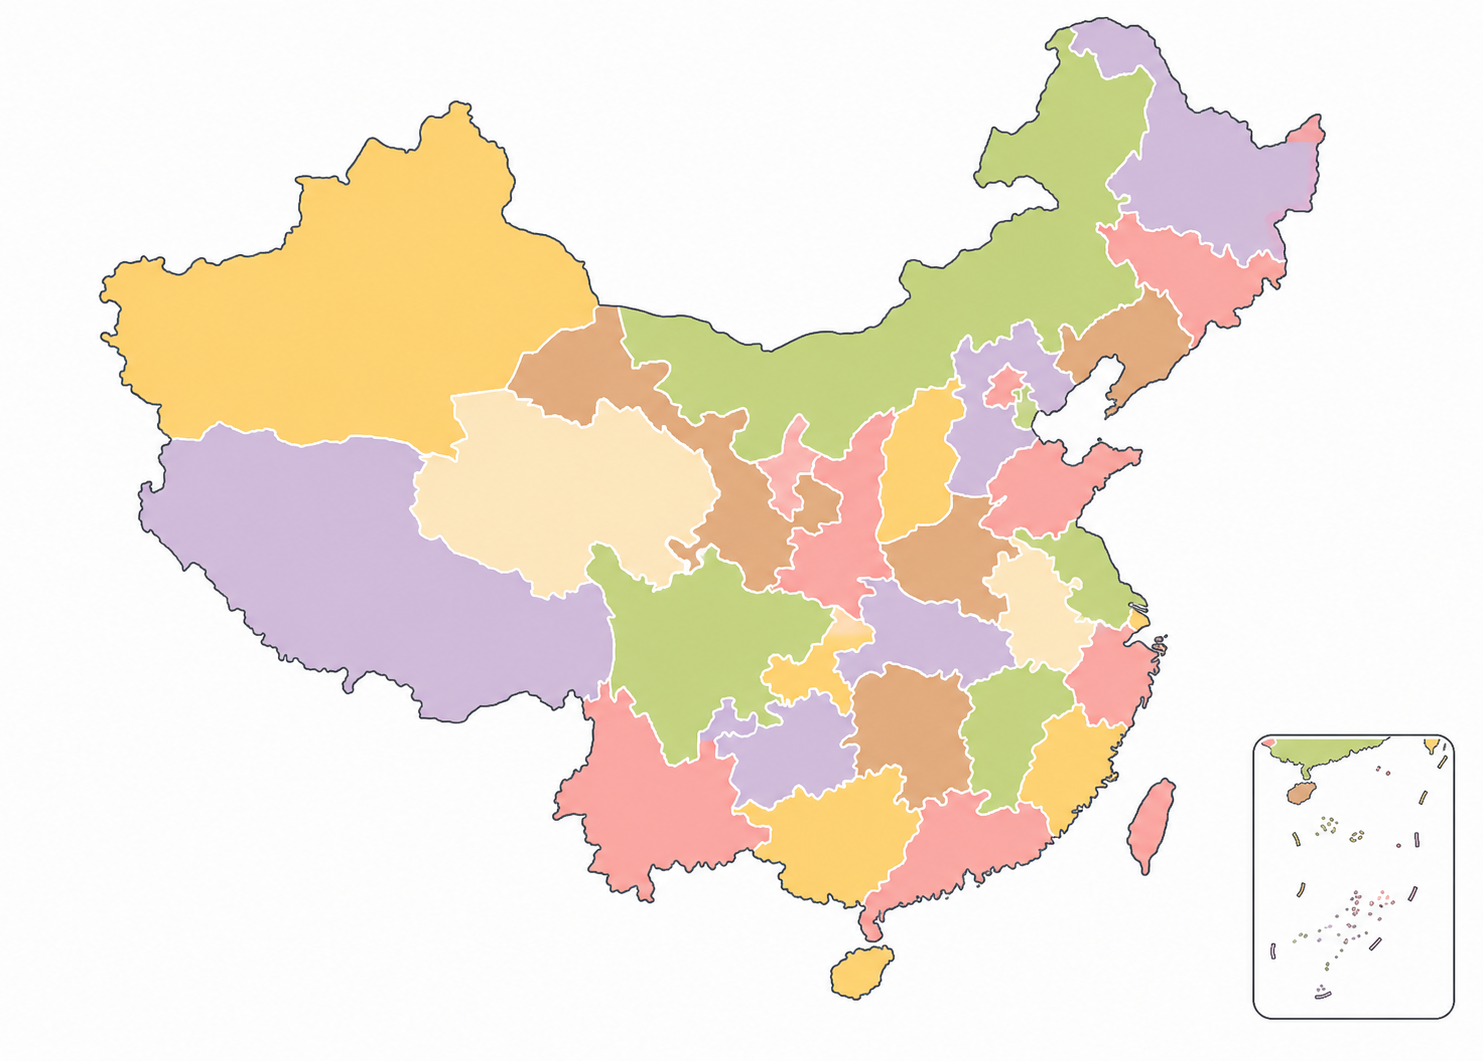
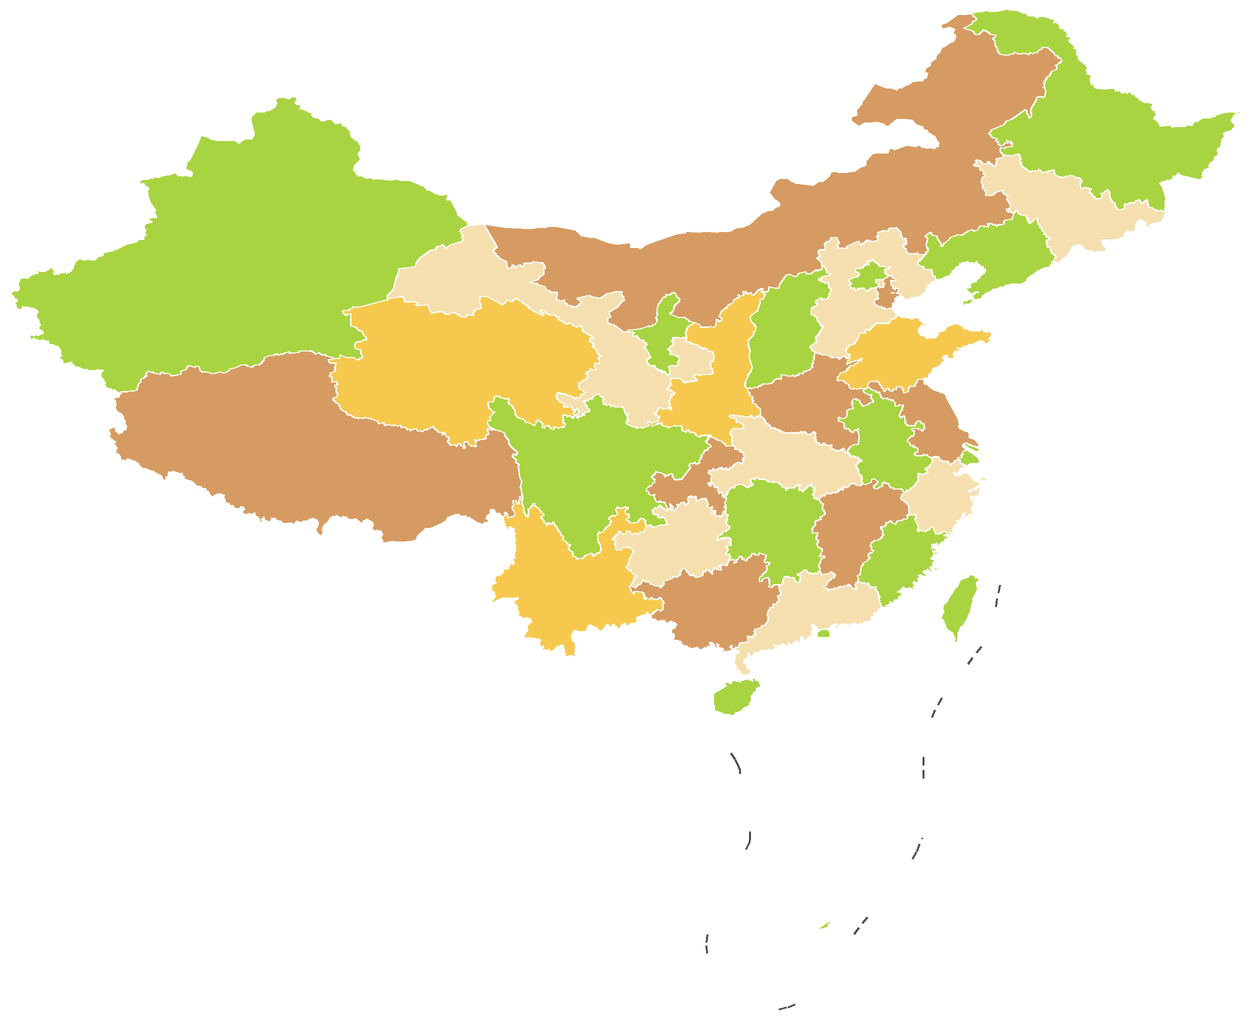
fix: align travel maps with geographic projection

diff --git a/index.html b/index.html
@@ -6,19 +6,19 @@
   <meta name="theme-color" content="#66B6FF">
   <title>小满则盈</title>
   <link rel="manifest" href="manifest.webmanifest">
-  <link rel="icon" href="icon.svg?v=28" type="image/svg+xml">
-  <link rel="apple-touch-icon" href="apple-touch-icon.png?v=28">
-  <link rel="icon" sizes="192x192" href="icon-192.png?v=28">
-  <link rel="icon" sizes="512x512" href="icon-512.png?v=28">
+  <link rel="icon" href="icon.svg?v=29" type="image/svg+xml">
+  <link rel="apple-touch-icon" href="apple-touch-icon.png?v=29">
+  <link rel="icon" sizes="192x192" href="icon-192.png?v=29">
+  <link rel="icon" sizes="512x512" href="icon-512.png?v=29">
   <!-- iOS PWA 启动屏：消除点击主屏图标时的黑色背景 -->
-  <link rel="apple-touch-startup-image" href="startup-1170x2532.png?v=28" media="(device-width: 390px) and (device-height: 844px) and (-webkit-device-pixel-ratio: 3)">
-  <link rel="apple-touch-startup-image" href="startup-1290x2796.png?v=28" media="(device-width: 430px) and (device-height: 932px) and (-webkit-device-pixel-ratio: 3)">
+  <link rel="apple-touch-startup-image" href="startup-1170x2532.png?v=29" media="(device-width: 390px) and (device-height: 844px) and (-webkit-device-pixel-ratio: 3)">
+  <link rel="apple-touch-startup-image" href="startup-1290x2796.png?v=29" media="(device-width: 430px) and (device-height: 932px) and (-webkit-device-pixel-ratio: 3)">
   <!-- iOS PWA 全屏 -->
   <meta name="apple-mobile-web-app-capable" content="yes">
   <meta name="apple-mobile-web-app-status-bar-style" content="black-translucent">
   <meta name="apple-mobile-web-app-title" content="小满则盈">
-  <link rel="stylesheet" href="css/style.css?v=28">
-  <link rel="stylesheet" href="css/app-v2.css?v=28">
+  <link rel="stylesheet" href="css/style.css?v=29">
+  <link rel="stylesheet" href="css/app-v2.css?v=29">
 </head>
 <body>
   <!-- 梦幻背景装饰 -->
@@ -79,9 +79,9 @@
     </div>
     <div id="xm-bubble" class="xm-bubble" hidden></div>
     <button id="xm-doll" aria-label="小满吉祥物">
-      <img id="xm-img-sleep" class="xm-img xm-img-sleep" src="images/xiaoman-sleeping.png?v=28" alt="小满" draggable="false">
-      <img id="xm-img-rubbing" class="xm-img xm-img-rubbing" src="images/xiaoman-rubbing.png?v=28" alt="小满" draggable="false">
-      <img id="xm-img-peek" class="xm-img xm-img-peek" src="images/xiaoman-peek.png?v=28" alt="小满" draggable="false">
+      <img id="xm-img-sleep" class="xm-img xm-img-sleep" src="images/xiaoman-sleeping.png?v=29" alt="小满" draggable="false">
+      <img id="xm-img-rubbing" class="xm-img xm-img-rubbing" src="images/xiaoman-rubbing.png?v=29" alt="小满" draggable="false">
+      <img id="xm-img-peek" class="xm-img xm-img-peek" src="images/xiaoman-peek.png?v=29" alt="小满" draggable="false">
     </button>
   </div>
 
@@ -96,19 +96,19 @@
     </div>
   </div>
 
-  <script src="js/config.js?v=28"></script>
-  <script src="js/city-geo.js?v=28"></script>
-  <script src="js/store.js?v=28"></script>
-  <script src="js/topbar.js?v=28"></script>
-  <script src="js/app.js?v=28"></script>
-  <script src="js/xiaoman.js?v=28"></script>
+  <script src="js/config.js?v=29"></script>
+  <script src="js/city-geo.js?v=29"></script>
+  <script src="js/store.js?v=29"></script>
+  <script src="js/topbar.js?v=29"></script>
+  <script src="js/app.js?v=29"></script>
+  <script src="js/xiaoman.js?v=29"></script>
   <script>
     document.addEventListener('DOMContentLoaded', function () {
       Topbar.init();
       App.init();
       Xiaoman.init();
       if ('serviceWorker' in navigator) {
-        navigator.serviceWorker.register('sw.js?v=28').catch(function () {});
+        navigator.serviceWorker.register('sw.js?v=29').catch(function () {});
       }
     });
   </script>

diff --git a/js/app.js b/js/app.js
@@ -742,8 +742,8 @@ const App = (function () {
   }
   function renderTravelOverview(tab) {
     const list = Store.getList({ collection: 'destinations' });
-    const chinaBox = { lonMin: 73, lonMax: 136, latMin: 17, latMax: 54 };
-    const worldBox = { lonMin: -158, lonMax: 202, latMin: -83, latMax: 90 };
+    const chinaBox = { lonMin: 73, lonMax: 136, latMin: 3, latMax: 54 };
+    const worldBox = { lonMin: -180, lonMax: 180, latMin: -60, latMax: 90 };
     const chinaPins = [], worldPins = [], noGeo = [];
     list.forEach(r => {
       const status = r.status === '待打卡' ? '想去' : (r.status || '想去');
@@ -767,7 +767,7 @@ const App = (function () {
       <span><i style="background:#4ade80"></i>已打卡</span>
     </div>`;
     const imageMap = (title, src, box, pins) => `<div class="travel-map" data-map-title="${title}"><div class="travel-map-head"><div class="travel-map-title">${title}</div><button type="button" class="travel-map-expand" aria-label="放大${title}地图">⛶ 放大</button></div><div class="travel-map-viewport"><div class="travel-map-stage"><img src="${src}" alt="${title}地图">${pins.map(p=>{ const left=((p.lon-box.lonMin)/(box.lonMax-box.lonMin)*100), top=(1-(p.lat-box.latMin)/(box.latMax-box.latMin))*100, shift=(p.offset||0)*7; return `<button type="button" class="map-pin" style="left:calc(${left.toFixed(2)}% + ${shift}px);top:calc(${top.toFixed(2)}% + ${shift}px);--pin-color:${p.color}" title="${esc(p.city)} · ${esc(p.status)}" aria-label="${esc(p.city)}，${esc(p.status)}" aria-expanded="false" data-city="${esc(p.city)}" data-canonical="${esc(p.canonical)}" data-status="${esc(p.status)}" data-date="${esc(p.goDate)}" data-days="${esc(p.travelDays)}" data-spots="${esc(p.spots)}" data-food="${esc(p.food)}"><span></span></button>`; }).join('')}</div><div class="travel-pin-card" hidden><button type="button" class="travel-pin-close" aria-label="关闭地点信息">×</button><strong data-pin-city></strong><span data-pin-location></span><em data-pin-status></em><div data-pin-details></div></div></div><div class="travel-map-controls" hidden><button type="button" data-map-zoom="out" aria-label="缩小地图">−</button><button type="button" data-map-reset>复位</button><button type="button" data-map-zoom="in" aria-label="放大地图">＋</button><button type="button" data-map-close>关闭</button></div></div>`;
-    const maps = `<div class="travel-maps">${imageMap('中国','images/china-map.png?v=28',chinaBox,chinaPins)}${imageMap('世界','images/world-map.png?v=28',worldBox,worldPins)}</div>`;
+    const maps = `<div class="travel-maps">${imageMap('中国','images/china-map.png?v=29',chinaBox,chinaPins)}${imageMap('世界','images/world-map.png?v=29',worldBox,worldPins)}</div>`;
     const note = noGeo.length ? `<div class="travel-nogeo">以下城市暂无坐标，暂不标地图：${esc(noGeo.join('、'))}</div>` : '';
     const hint = !list.length ? `<div class="empty-state"><div class="empty-state-icon">🗺</div><div class="empty-state-text">还没有旅行记录，去「目的地」添加吧</div></div>` : '';
     return stats + legend + maps + note + hint;

diff --git a/sw.js b/sw.js
@@ -1,8 +1,8 @@
-const CACHE = 'wb-shell-v28';
+const CACHE = 'wb-shell-v29';
 const FILES = [
-  'index.html','css/style.css?v=28','css/app-v2.css?v=28','js/config.js?v=28','js/city-geo.js?v=28','js/store.js?v=28','js/topbar.js?v=28','js/app.js?v=28','js/xiaoman.js?v=28','manifest.webmanifest',
-  'images/xiaoman-sleeping.png?v=28','images/xiaoman-rubbing.png?v=28','images/xiaoman-peek.png?v=28','images/china-map.png?v=28','images/world-map.png?v=28',
-  'icon.svg?v=28','icon-192.png?v=28','icon-512.png?v=28','apple-touch-icon.png?v=28','startup-1170x2532.png?v=28','startup-1290x2796.png?v=28'
+  'index.html','css/style.css?v=29','css/app-v2.css?v=29','js/config.js?v=29','js/city-geo.js?v=29','js/store.js?v=29','js/topbar.js?v=29','js/app.js?v=29','js/xiaoman.js?v=29','manifest.webmanifest',
+  'images/xiaoman-sleeping.png?v=29','images/xiaoman-rubbing.png?v=29','images/xiaoman-peek.png?v=29','images/china-map.png?v=29','images/world-map.png?v=29',
+  'icon.svg?v=29','icon-192.png?v=29','icon-512.png?v=29','apple-touch-icon.png?v=29','startup-1170x2532.png?v=29','startup-1290x2796.png?v=29'
 ];
 self.addEventListener('install',e=>{e.waitUntil(caches.open(CACHE).then(c=>c.addAll(FILES)));self.skipWaiting();});
 self.addEventListener('activate',e=>{e.waitUntil(caches.keys().then(keys=>Promise.all(keys.filter(k=>k!==CACHE).map(k=>caches.delete(k)))));self.clients.claim();});
